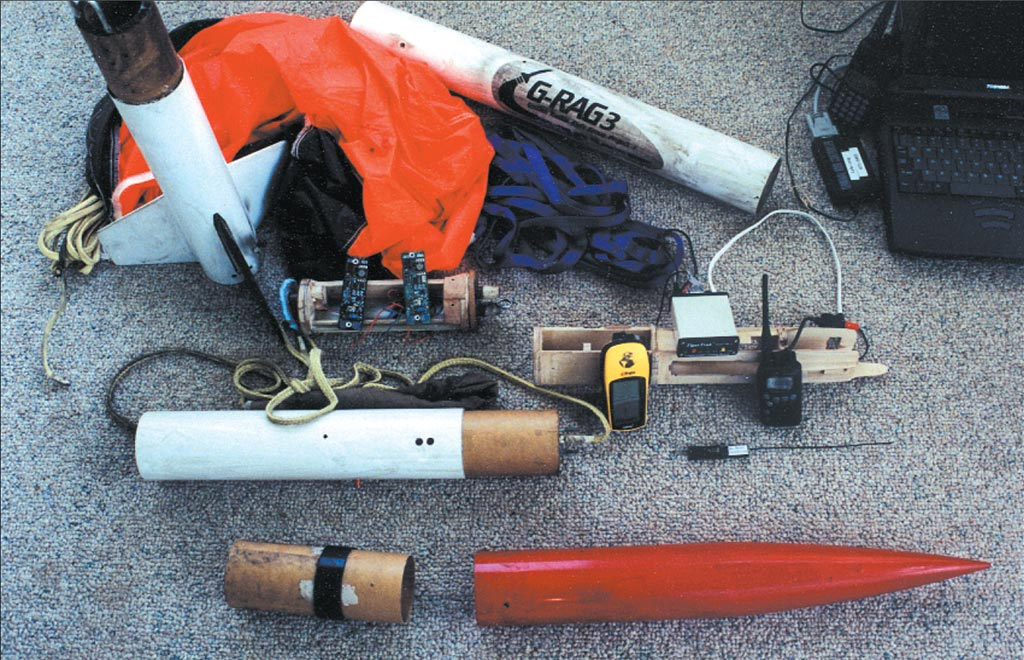
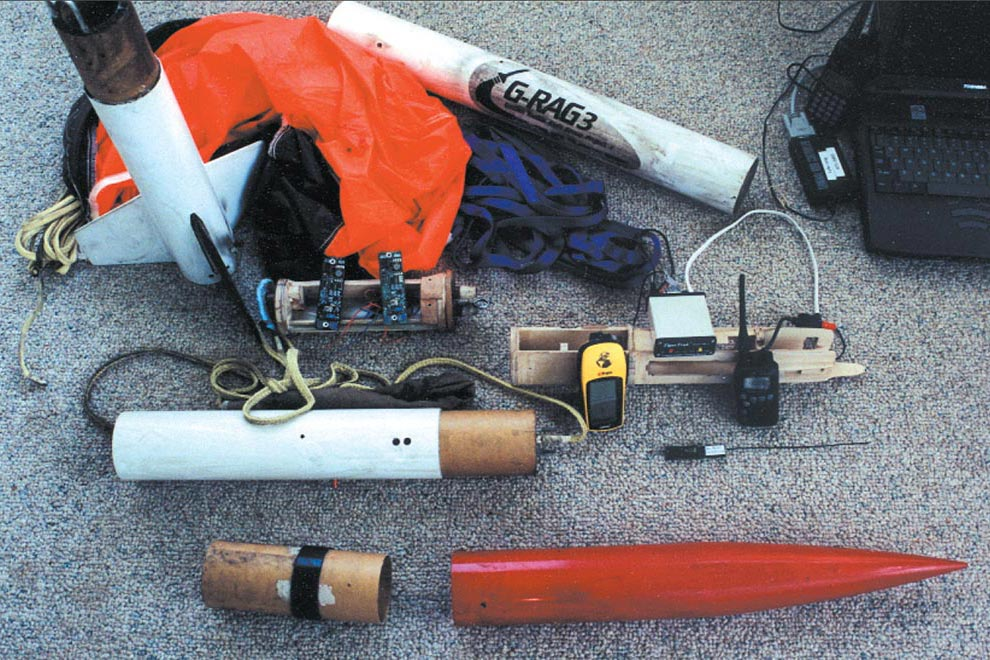
Fixing photos for backstory

diff --git a/_posts/2020-01-24-backstory.md b/_posts/2020-01-24-backstory.md
@@ -13,7 +13,7 @@ My first HPR launch was in Three Oaks, MI in the fall of 1996.
 My dad, Ken Horst, and I dove deep into rocketry after that.
 
 <figure>
-  <div class="placeholder" style="padding-top:100%;"></div>
+  <div class="placeholder r1x1"></div>
   <img src="{{ "/assets/photos/1996-early-model-rocket-launch.jpg" | relative_url }}" alt="Early model rocket launch in 1996" />
   <figcaption>An early rocket launch with my dad & brother (left). Rockets featured: Estes Alpha III, Estes Nova (with Lego astronaut as payload), Estes Bull Pup</figcaption>
 </figure>
@@ -32,7 +32,7 @@ I still have two of my entries: a scratch-built 3" Ares (4×29mm), and a scratch
 Neither one of them has flown but they were designed and built so that they could.
 
 <figure>
-  <div class="placeholder" style="padding-top:100%;"></div>
+  <div class="placeholder r1x1"></div>
   <img src="{{ "/assets/photos/1998-4-H-WAC-Corporal.jpg" | relative_url }}" alt="4-H WAC Corporal in 1998" />
   <figcaption>My 4-H WAC Corporal. I turned both nose cones and built the telescoping stage coupler with heavy-gauge music wire.</figcaption>
 </figure>
@@ -50,7 +50,7 @@ The [3-inch launch vehicle I built for that project][2] flew different payload c
 The rocket was retired after losing a fin to a hard landing in the Nevada desert at LDRS 26 (2007).
 
 <figure>
-  <div class="placeholder" style="padding-top:64.45%;"></div>
+  <div class="placeholder r2x3"></div>
   <img src="{{ "/assets/photos/2001-G-RAG-3-payload.jpg" | relative_url }}" alt="G-RAG 3 payload" />
   <figcaption>Avionics & telemetry payload for the G-RAG 3 rocket. Electronics have gotten a <em>lot</em> smaller since then.</figcaption>
 </figure>
